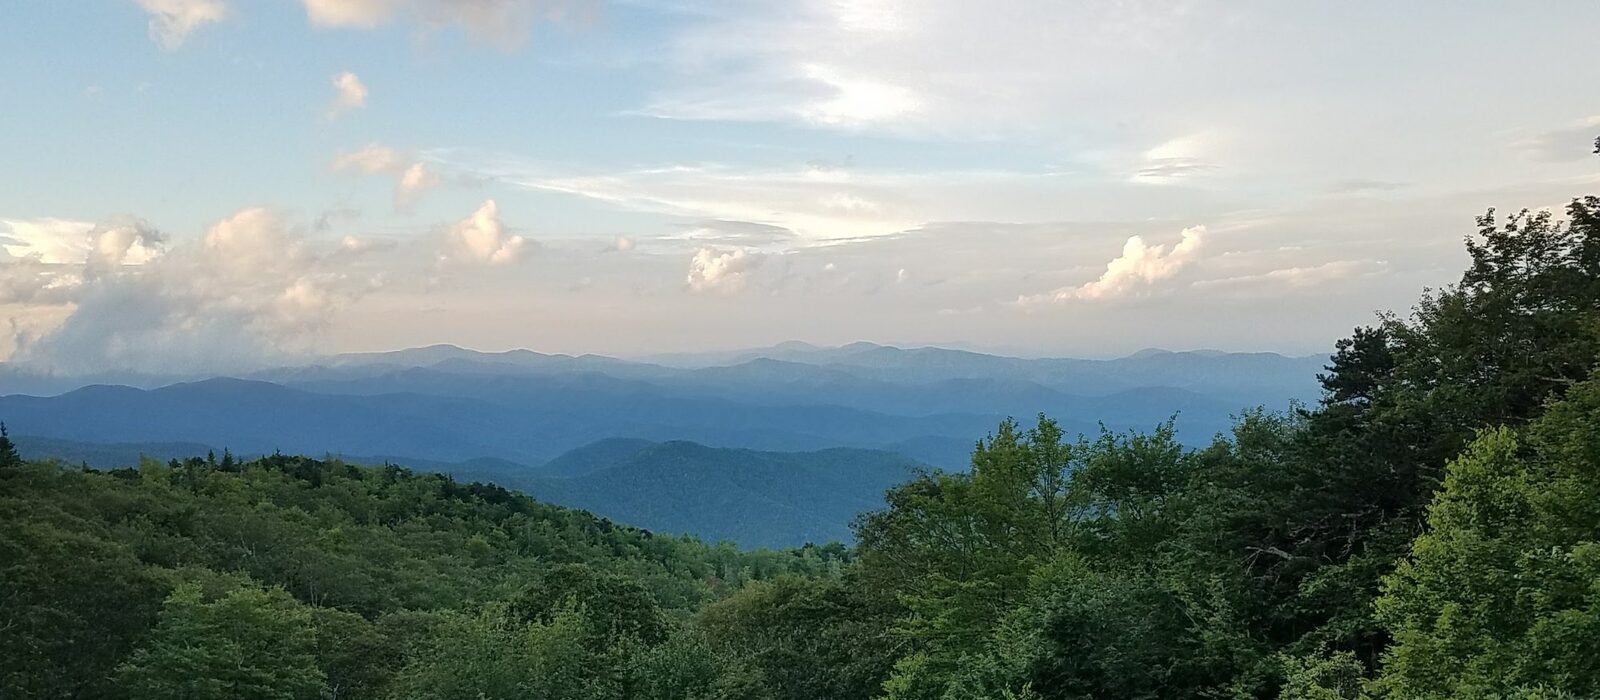
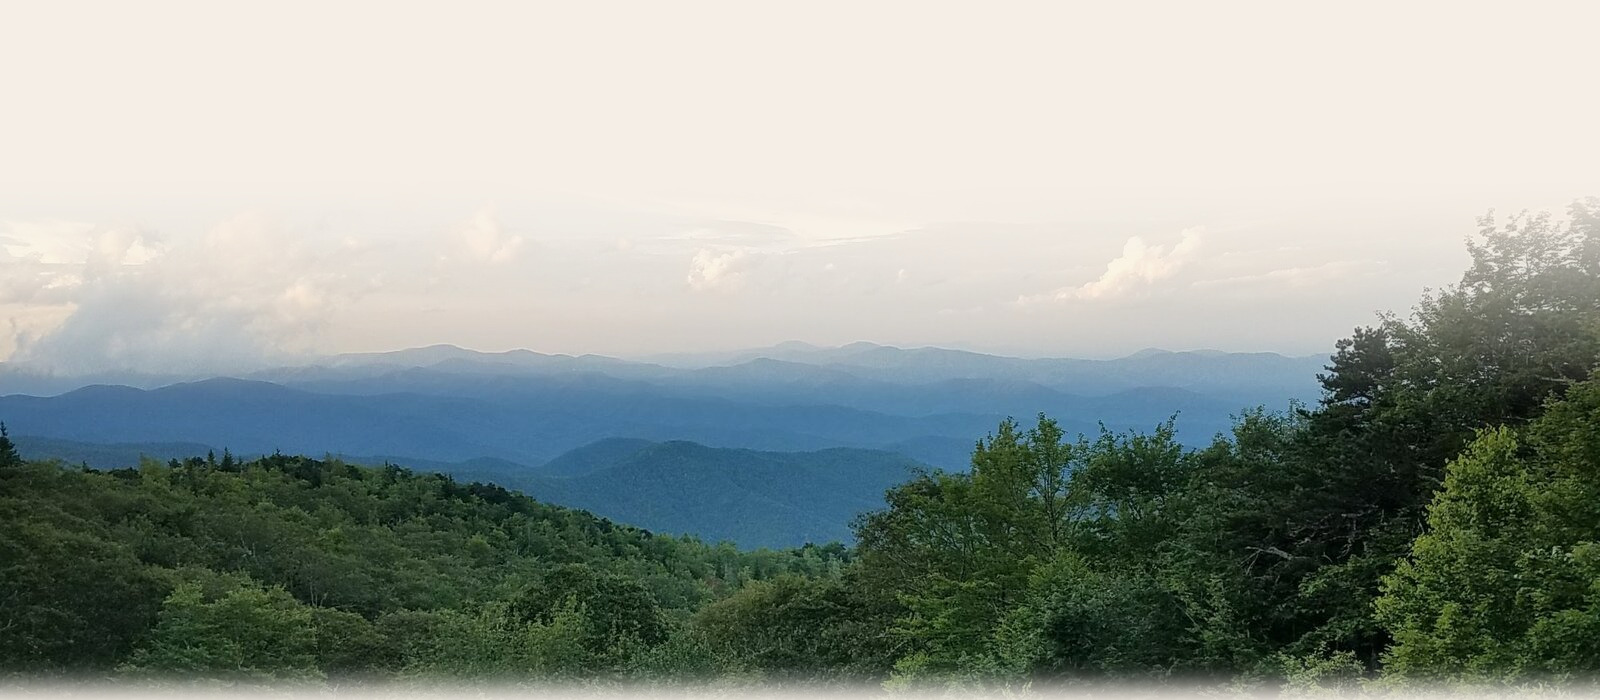
feat: seamless marble texture, footer mountain fade, spacing refinements

diff --git a/apps/web/app/globals.css b/apps/web/app/globals.css
@@ -122,13 +122,13 @@ img {
 
 .br-section {
   position: relative;
-  padding-top: 40px;
-  padding-bottom: 40px;
+  padding-top: 44px;
+  padding-bottom: 44px;
 }
 
 .br-section-tight {
-  padding-top: 28px;
-  padding-bottom: 28px;
+  padding-top: 18px;
+  padding-bottom: 18px;
 }
 
 .br-section-large {
@@ -399,7 +399,7 @@ img {
 /* ── Hero (full-width overlay layout) ── */
 
 .br-hero-wrap {
-  padding: 0 0 12px;
+  padding: 0 0 0;
   margin-top: -10px;
 }
 
@@ -563,13 +563,13 @@ img {
 /* ── Stats band ── */
 
 .br-stats-band {
-  background: rgba(248, 243, 237, 0.5);
+  background: rgba(248, 243, 237, 0.4);
   border-top: 1px solid rgba(169, 155, 138, 0.2);
   border-bottom: 1px solid rgba(169, 155, 138, 0.2);
   box-shadow: 0 12px 32px rgba(60, 40, 20, 0.22), 0 4px 10px rgba(60, 40, 20, 0.1);
   border-left: 0;
   border-right: 0;
-  padding: 14px 0 12px;
+  padding: 10px 0 8px;
   box-shadow:
     inset 0 1px 0 rgba(255, 255, 255, 0.56),
     inset 0 -1px 0 rgba(165, 148, 128, 0.06);
@@ -659,8 +659,8 @@ img {
 }
 
 .br-commitment-section {
-  padding-top: 32px;
-  padding-bottom: 28px;
+  padding-top: 44px;
+  padding-bottom: 44px;
 }
 
 .br-commitment-grid {
@@ -795,15 +795,15 @@ img {
 }
 
 .br-process-section {
-  padding-top: 8px;
-  padding-bottom: 16px;
+  padding-top: 28px;
+  padding-bottom: 28px;
 }
 
 .br-process-row {
   display: grid;
   gap: 22px;
   max-width: 980px;
-  margin: 30px auto 0;
+  margin: 26px auto 0;
   padding-top: 26px;
   border-top: 1px solid rgba(175, 159, 140, 0.34);
 }
@@ -841,7 +841,7 @@ img {
 
 .br-portfolio-grid {
   display: grid;
-  gap: 32px;
+  gap: 42px;
   max-width: 900px;
   margin: 0 auto;
 }
@@ -849,22 +849,16 @@ img {
 .br-closing-sequence {
   position: relative;
   padding: 0;
+  margin: 0;
 }
 
 .br-closing-sequence::before {
-  content: "";
-  position: absolute;
-  top: 0;
-  left: 50%;
-  width: min(900px, calc(100% - 40px));
-  height: 1px;
-  transform: translateX(-50%);
-  background: rgba(176, 160, 140, 0.2);
+  display: none;
 }
 
 .br-closing-portfolio {
-  padding-top: 20px;
-  padding-bottom: 24px;
+  padding-top: 28px;
+  padding-bottom: 20px;
 }
 
 .br-portfolio-card {
@@ -948,7 +942,7 @@ img {
 /* ── Footer ── */
 
 .br-footer {
-  padding: 22px 20px 38px;
+  padding: 8px 20px 24px;
   text-align: center;
   color: var(--br-text-soft);
   font-size: 14px;
@@ -957,7 +951,7 @@ img {
 .br-footer-inner {
   max-width: 1180px;
   margin: 0 auto;
-  padding-top: 20px;
+  padding-top: 10px;
   border-top: 1px solid rgba(170, 154, 136, 0.22);
 }
 
@@ -1218,27 +1212,42 @@ img {
 .br-closing-cta {
   position: relative;
   background-image: url('/backgrounds/mountain-footer.jpg');
-  background-size: cover;
-  background-position: center top;
+  background-size: 100% auto;
+  background-position: center bottom;
   background-repeat: no-repeat;
-  padding-top: 64px !important;
-  padding-bottom: 80px !important;
+  padding-top: 44px !important;
+  padding-bottom: 60px !important;
   text-align: left;
-  overflow: hidden;
+  overflow: visible;
+}
+
+.br-closing-cta-bg {
+  position: absolute;
+  bottom: 0;
+  left: 50%;
+  transform: translateX(-50%);
+  width: 100%;
+  max-width: 1180px;
+  height: auto;
+  z-index: 0;
+  pointer-events: none;
 }
 
 .br-closing-cta::before {
+  display: none;
   content: "";
   position: absolute;
-  top: -2px;
+  top: 0;
   left: 0;
   right: 0;
-  height: 200px;
+  height: 50%;
   background: linear-gradient(180deg,
     rgba(244, 238, 231, 1) 0%,
-    rgba(244, 238, 231, 0.95) 25%,
-    rgba(244, 238, 231, 0.7) 50%,
-    rgba(244, 238, 231, 0.3) 75%,
+    rgba(244, 238, 231, 1) 20%,
+    rgba(244, 238, 231, 0.97) 35%,
+    rgba(244, 238, 231, 0.88) 50%,
+    rgba(244, 238, 231, 0.6) 65%,
+    rgba(244, 238, 231, 0.25) 80%,
     rgba(244, 238, 231, 0) 100%);
   z-index: 1;
   pointer-events: none;
@@ -1247,6 +1256,15 @@ img {
 .br-closing-cta .br-container {
   position: relative;
   z-index: 2;
+}
+
+.br-closing-cta .br-title {
+  text-shadow: 0 1px 4px rgba(255, 255, 255, 0.7);
+}
+
+.br-closing-cta .br-lead,
+.br-closing-cta .br-cta-copy {
+  text-shadow: 0 1px 3px rgba(255, 255, 255, 0.6);
 }
 
 .br-closing-cta .br-title,
